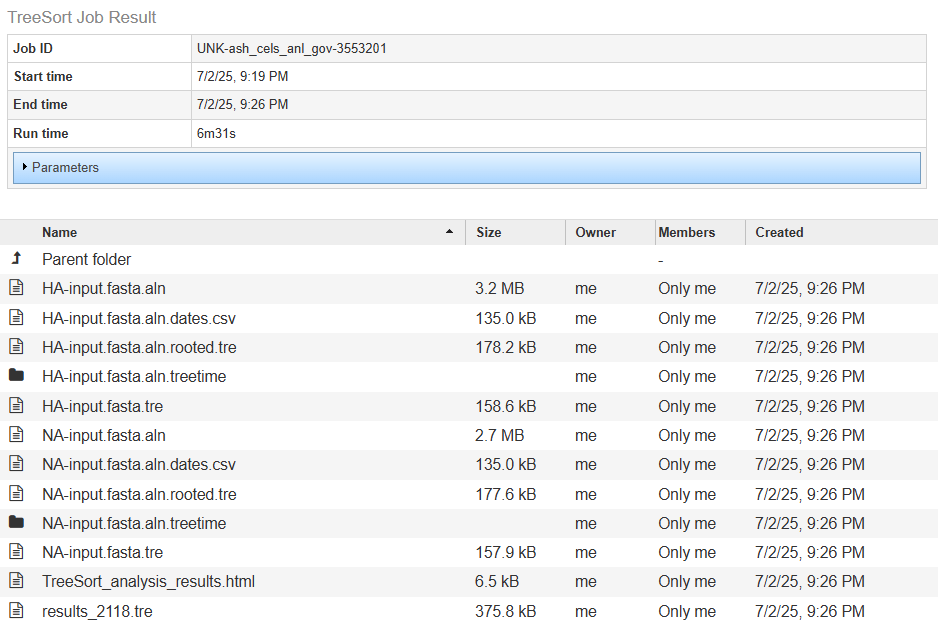
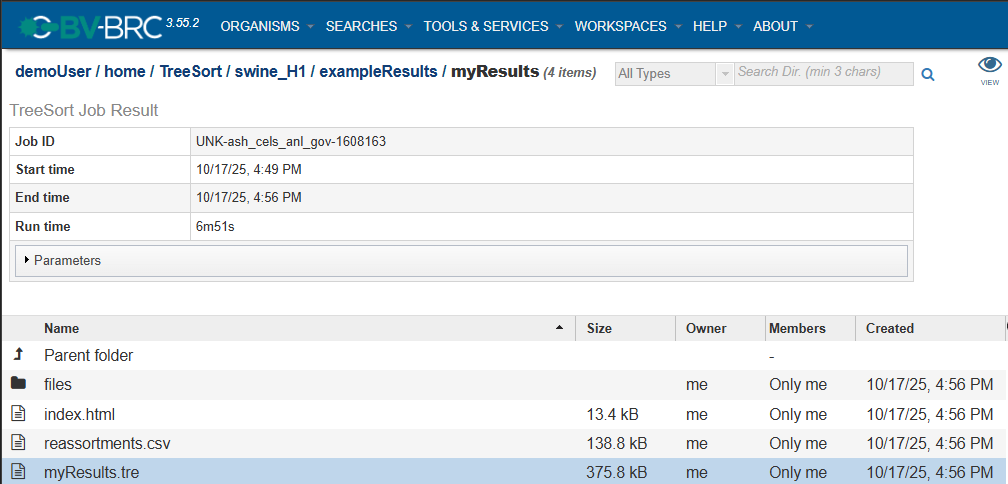
- Updated the TreeSort quick references markdown file to reflect recent changes to the result files generated by TreeSort. - Fixed incorrect markdown formatting that prevented info dialogs and help text from being correctly displayed.

diff --git a/docroot/quick_references/services/treesort_service.md b/docroot/quick_references/services/treesort_service.md
@@ -14,7 +14,7 @@ The current version of TreeSort is meant to be used for Influenza viruses ONLY. 
   * TreeSort Service Tutorial (TODO)
 
 ## Using the TreeSort Service
-  The **“TreeSort”** submenu under the **“TOOLS & SERVICES”** main menu (Viral Tools category) opens the input form.
+In the main menu, **TreeSort** is located under **TOOLS & SERVICES** and **Viral Tools**.
 
   * *Note: You must be logged into BV-BRC to use this service.*
 
@@ -23,43 +23,43 @@ The current version of TreeSort is meant to be used for Influenza viruses ONLY. 
 ## Parameters
 ![TreeSort Parameters](../images/treesort_parameters.png)
 
-### **Input file**
+## Input file
 Select a FASTA file from your workspace. Note that the FASTA headers/deflines have very strict formatting requirements:
   1. The segment name and sample date must be formatted like the following example ("|segment|sample date" are in yellow):
   ![TreeSort FASTA Example](../images/treesort_fasta_example.png)
   2. Only the following Influenza segment names are recognized: PB2, PB1, PA, HA, NP, NA, MP, and NS.
 
-### **Output folder**
+## Output folder
 The directory in your workspace where a directory will be created for the TreeSort results.
 
-### **Output name**
+## Output name
 The name of the directory that will be created under "Output folder". This name will also be used for the primary results filename (*output name*.tre).
 
-### **Reference segment**
+## Reference segment
 Reassortment events are acquisitions of 1 or more novel segments relative to this (fixed) reference segment.
 
-### **Segments**
+## Segments
 Select at least 2 segments to include in the analysis.
 
 ## Advanced options
 ![TreeSort Advanced Options](../images/treesort_advanced_options.png)
 
-### **Match type**
+## Match type
    * **Strain**: Match the names (deflines in FASTAs) across the segments based on the strain name. E.g., "A/Texas/32/2021" or "A/swine/A0229832/Iowa/2021". Works for flu A, B, C, and D, and no pre-processing is needed to standardize the names before the analysis.
    * **EPI_ISL_XXX**: Segments are matched based on the "EPI_ISL_XXX" field (if present in deflines).
    * **RegEx**: Provide your own custom regular expression to match the segments across the alignments.
 
-### **Match RegEx**
+## Match RegEx
    When a match type of **RegEx** is selected, your custom regular expression will be entered in this field.
 
-### **Inference method**
+## Inference method
    * **local**: (default)
    * **mincut**: The mincut method:
      - Always determines the most parsimonious reassortment placement, even in ambiguous circumstances.
      - Uses the reassortment test to cut the reference phylogeny into the optimum (smallest) number of non-reassorting parts with theoretical guarantees on optimality.
      - Is more robust than the current "local" method in many instances, and does not result in "uncertain" reassortment inferences with the '?' annotation.
 
-### **Reference tree inference method**
+## Reference tree inference method
 The tool that will be used to infer the reference tree:
 
 * **FastTree**: (default)
@@ -71,20 +71,20 @@ The tool that will be used to infer the reference tree:
   - A fast search algorithm ([Nguyen et al., 2015](https://academic.oup.com/mbe/article/32/1/268/2925592)) to infer phylogenetic trees by maximum likelihood.
   - [https://iqtree.github.io/](https://iqtree.github.io/)
 
-### **Allowed deviation**
+## Allowed deviation
 Maximum deviation from the estimated substitution rate within each segment. The default is 2: The substitution rate on a particular tree branch is allowed to be twice as high or twice as low as the estimated rate. The default value was estimated from the empirical influenza A data.
 
-### **P-value threshold**
+## P-value threshold
 The cutoff p-value for the reassortment tests: the default is 0.001 (0.1 percent). You may want to decrease or increase this parameter depending on how stringent you want the analysis to be.
 
-### **Clades filename**
+## Clades filename
 The path to an output file where clades with evidence of reassortment will be saved.
 
-### **Estimate molecular clock rates for different segments**
+## Estimate molecular clock rates for different segments
 Estimate molecular clock rates for different segments, assuming equal rates.
 
-### **Collapse near-zero length branches into multifurcations**
-Collapse near-zero length branches into multifurcations (by default, TreeSort collapses all branches shorter than 10^-7^ (1e-7) and then optimizes the multifurcations).
+## Collapse near-zero length branches into multifurcations
+Collapse near-zero length branches into multifurcations (by default, TreeSort collapses all branches shorter than 1e-7 and then optimizes the multifurcations).
 
 
 ## Buttons
@@ -108,12 +108,15 @@ Once the job has completed, you can view the results by double-clicking the job 
 
 ![Job Results](../images/treesort_results.png)
 
-The results page consists of a header describing the job and a list of output files, which are generated by the TreeSort service and saved in your Workspace.
+The Job Result page contains two sections:
+* Details about the job including its ID, its start, end, and run times, and the parameters that were used when the job was submitted (click on the arrow next to "Parameters" to view the job description formatted as JSON).
+* Result files generated by the TreeSort service and saved in your Workspace. The best place to start is the index.html page (see details below).
 
 ### Result files
-
-* **TreeSort_analysis_results.html**: An overview of the analysis results with links to all files generated by TreeSort, descriptions of the file types, and guidance on how to interpret the result data.
+* **index.html**: An overview of the analysis results with links to all files generated by TreeSort, descriptions of the file types, and guidance on how to interpret the result data. It can be accessed by clicking on the "view" icon (an eye) to the right of the Job Details, or by clicking directly on the page icon to the left of "index.html" in the list of result files.
+* **reassortments.csv**: A spreadsheet of the analysis results for every strain that was included in the input FASTA file. For each strain, the "is_reassorted" column will contain a "Y" if reassortment is inferred, and the "is_uncertain" column indicates the uncertainty of the inference. The remaining columns represent the segments found in the input FASTA file, and if reassortment is inferred for that strain, the reassorted segment's column will contain the number of nucleotides that differ from the previous strain.
 * **<*output name*>.tre**: An annotated tree file in Nexus format where *output name* is the text entered in the **Output name** field.
+* The **files** folder contains segment-specific intermediate files generated by TreeSort before performing the analysis.
 
 ### Segment-specific files
 These files are generated for every virus segment included in the analysis, where *segment name* is PB2, PB1, PA, HA, NP, NA, MP, or NS.
@@ -122,7 +125,7 @@ These files are generated for every virus segment included in the analysis, wher
 * **<*segment name*>-input.fasta.aln.rooted.tre**
 * **<*segment name*>-input.fasta.tre**
 
-* **<*segment name*>-input.fasta.aln.treetime**
+* **<*segment name*>-input.fasta.aln.treetime** is a folder that contains the following files:
    * **outliers.tsv**
    * **root_to_tip_regression.pdf**
    * **rtt.csv**
@@ -149,6 +152,7 @@ More details are available in the [Action Buttons](https://bv-brc.org/docs/user_
 [bioRxiv 2024.11.15.623781](https://www.biorxiv.org/content/10.1101/2024.11.15.623781v1); doi: https://doi.org/10.1101/2024.11.15.623781
 
 2. GitHub: [https://github.com/flu-crew/TreeSort](https://github.com/flu-crew/TreeSort)
+
 
 
 
